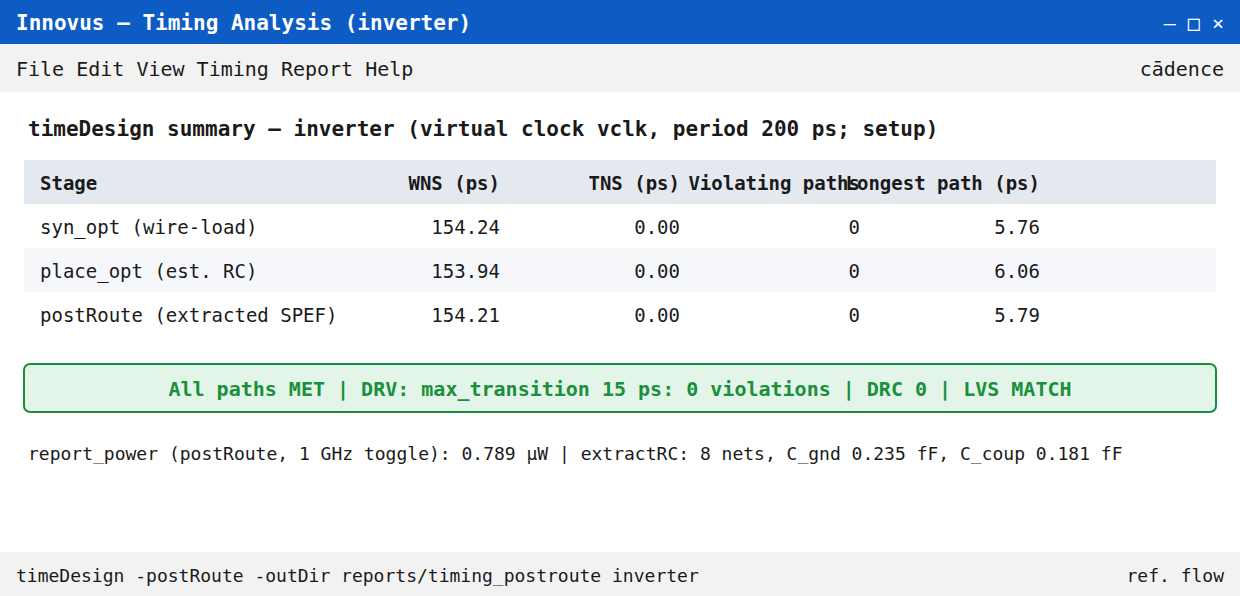
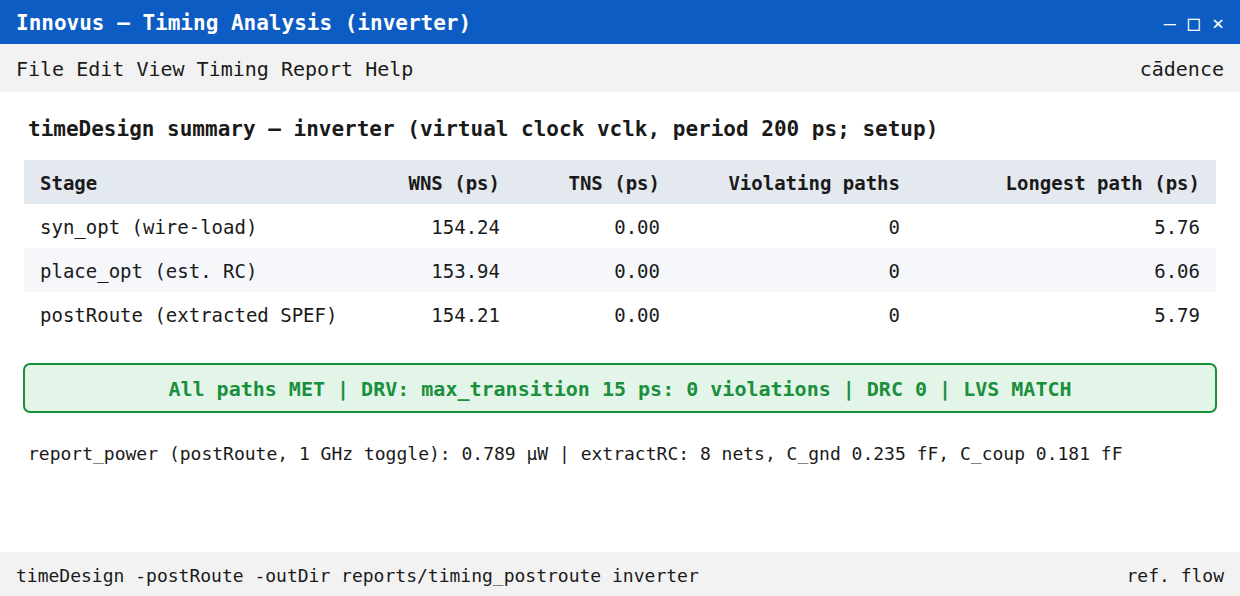
Fix column spacing in the timing summary window
Claude-Session: https://claude.ai/code/session_01WEQu51z34c77kiBmdVwhe8

diff --git a/vlsi/gaa_inverter/docs/gaa_inverter_paper.html b/vlsi/gaa_inverter/docs/gaa_inverter_paper.html
@@ -4575,25 +4575,25 @@ flowchart LR
 <rect x="12" y="34" width="596" height="22" fill="#e4e8ef"/>
 <text x="20" y="49" fill="#1a1a1a" font-size="9.5" font-weight="600" text-anchor="start">Stage</text>
 <text x="250" y="49" fill="#1a1a1a" font-size="9.5" font-weight="600" text-anchor="end">WNS (ps)</text>
-<text x="340" y="49" fill="#1a1a1a" font-size="9.5" font-weight="600" text-anchor="end">TNS (ps)</text>
-<text x="430" y="49" fill="#1a1a1a" font-size="9.5" font-weight="600" text-anchor="end">Violating paths</text>
-<text x="520" y="49" fill="#1a1a1a" font-size="9.5" font-weight="600" text-anchor="end">Longest path (ps)</text>
+<text x="330" y="49" fill="#1a1a1a" font-size="9.5" font-weight="600" text-anchor="end">TNS (ps)</text>
+<text x="450" y="49" fill="#1a1a1a" font-size="9.5" font-weight="600" text-anchor="end">Violating paths</text>
+<text x="600" y="49" fill="#1a1a1a" font-size="9.5" font-weight="600" text-anchor="end">Longest path (ps)</text>
 <text x="20" y="71" fill="#1a1a1a" font-size="9.5">syn_opt (wire-load)</text>
 <text x="250" y="71" fill="#1a1a1a" font-size="9.5" text-anchor="end">112.84</text>
-<text x="340" y="71" fill="#1a1a1a" font-size="9.5" text-anchor="end">0.00</text>
-<text x="430" y="71" fill="#1a1a1a" font-size="9.5" text-anchor="end">0</text>
-<text x="520" y="71" fill="#1a1a1a" font-size="9.5" text-anchor="end">47.16</text>
+<text x="330" y="71" fill="#1a1a1a" font-size="9.5" text-anchor="end">0.00</text>
+<text x="450" y="71" fill="#1a1a1a" font-size="9.5" text-anchor="end">0</text>
+<text x="600" y="71" fill="#1a1a1a" font-size="9.5" text-anchor="end">47.16</text>
 <rect x="12" y="78" width="596" height="22" fill="#f5f7fb"/>
 <text x="20" y="93" fill="#1a1a1a" font-size="9.5">place_opt (est. RC)</text>
 <text x="250" y="93" fill="#1a1a1a" font-size="9.5" text-anchor="end">112.54</text>
-<text x="340" y="93" fill="#1a1a1a" font-size="9.5" text-anchor="end">0.00</text>
-<text x="430" y="93" fill="#1a1a1a" font-size="9.5" text-anchor="end">0</text>
-<text x="520" y="93" fill="#1a1a1a" font-size="9.5" text-anchor="end">47.46</text>
+<text x="330" y="93" fill="#1a1a1a" font-size="9.5" text-anchor="end">0.00</text>
+<text x="450" y="93" fill="#1a1a1a" font-size="9.5" text-anchor="end">0</text>
+<text x="600" y="93" fill="#1a1a1a" font-size="9.5" text-anchor="end">47.46</text>
 <text x="20" y="115" fill="#1a1a1a" font-size="9.5">postRoute (extracted SPEF)</text>
 <text x="250" y="115" fill="#1a1a1a" font-size="9.5" text-anchor="end">110.82</text>
-<text x="340" y="115" fill="#1a1a1a" font-size="9.5" text-anchor="end">0.00</text>
-<text x="430" y="115" fill="#1a1a1a" font-size="9.5" text-anchor="end">0</text>
-<text x="520" y="115" fill="#1a1a1a" font-size="9.5" text-anchor="end">49.18</text>
+<text x="330" y="115" fill="#1a1a1a" font-size="9.5" text-anchor="end">0.00</text>
+<text x="450" y="115" fill="#1a1a1a" font-size="9.5" text-anchor="end">0</text>
+<text x="600" y="115" fill="#1a1a1a" font-size="9.5" text-anchor="end">49.18</text>
 <rect x="12" y="136" width="596" height="24" rx="3" fill="#e3f5e8" stroke="#1a8f3c"/>
 <text x="310" y="152" fill="#1a8f3c" font-size="10" text-anchor="middle" font-weight="700">All paths MET   |   DRV: max_transition 15 ps: 0 violations   |   DRC 0   |   LVS MATCH</text>
 <text x="14" y="184" fill="#1a1a1a" font-size="9">report_power (postRoute, 1 GHz toggle): 7.359 µW   |   extractRC: 49 nets, C_gnd 3.093 fF, C_coup 2.801 fF</text>
@@ -9391,14 +9391,14 @@ def timing_view(d):
     w, h = 620, 230; o = [f&#x27;&lt;rect width=&quot;{w}&quot; height=&quot;{h}&quot; fill=&quot;{C[&quot;pane&quot;]}&quot;/&gt;&#x27;]
     o.append(f&#x27;&lt;text x=&quot;14&quot; y=&quot;22&quot; fill=&quot;{C[&quot;ink&quot;]}&quot; font-size=&quot;10.5&quot; font-weight=&quot;600&quot;&gt;timeDesign summary  –  {d}   (virtual clock vclk, period 200 ps; setup)&lt;/text&gt;&#x27;)
     o.append(f&#x27;&lt;rect x=&quot;12&quot; y=&quot;34&quot; width=&quot;{w-24}&quot; height=&quot;22&quot; fill=&quot;{C[&quot;head&quot;]}&quot;/&gt;&#x27;)
-    for x, t, anc in ((20, &quot;Stage&quot;, &quot;start&quot;), (250, &quot;WNS (ps)&quot;, &quot;end&quot;), (340, &quot;TNS (ps)&quot;, &quot;end&quot;), (430, &quot;Violating paths&quot;, &quot;end&quot;), (520, &quot;Longest path (ps)&quot;, &quot;end&quot;)):
+    for x, t, anc in ((20, &quot;Stage&quot;, &quot;start&quot;), (250, &quot;WNS (ps)&quot;, &quot;end&quot;), (330, &quot;TNS (ps)&quot;, &quot;end&quot;), (450, &quot;Violating paths&quot;, &quot;end&quot;), (600, &quot;Longest path (ps)&quot;, &quot;end&quot;)):
         o.append(f&#x27;&lt;text x=&quot;{x}&quot; y=&quot;49&quot; fill=&quot;{C[&quot;ink&quot;]}&quot; font-size=&quot;9.5&quot; font-weight=&quot;600&quot; text-anchor=&quot;{anc}&quot;&gt;{t}&lt;/text&gt;&#x27;)
     rows = [(&quot;syn_opt (wire-load)&quot;, syn[&quot;slack_ps&quot;], syn[&quot;path_ps&quot;]), (&quot;place_opt (est. RC)&quot;, syn[&quot;slack_ps&quot;] - 0.3, syn[&quot;path_ps&quot;] + 0.3), (&quot;postRoute (extracted SPEF)&quot;, pnr[&quot;postroute_slack_ps&quot;], pnr[&quot;postroute_path_ps&quot;])]
     for k, (st, sl, pth) in enumerate(rows):
         y = 56 + k * 22
         if k % 2: o.append(f&#x27;&lt;rect x=&quot;12&quot; y=&quot;{y}&quot; width=&quot;{w-24}&quot; height=&quot;22&quot; fill=&quot;{C[&quot;alt&quot;]}&quot;/&gt;&#x27;)
         o.append(f&#x27;&lt;text x=&quot;20&quot; y=&quot;{y+15}&quot; fill=&quot;{C[&quot;ink&quot;]}&quot; font-size=&quot;9.5&quot;&gt;{st}&lt;/text&gt;&#x27;)
-        for x, v in ((250, f&quot;{sl:.2f}&quot;), (340, &quot;0.00&quot;), (430, &quot;0&quot;), (520, f&quot;{pth:.2f}&quot;)):
+        for x, v in ((250, f&quot;{sl:.2f}&quot;), (330, &quot;0.00&quot;), (450, &quot;0&quot;), (600, f&quot;{pth:.2f}&quot;)):
             o.append(f&#x27;&lt;text x=&quot;{x}&quot; y=&quot;{y+15}&quot; fill=&quot;{C[&quot;ink&quot;]}&quot; font-size=&quot;9.5&quot; text-anchor=&quot;end&quot;&gt;{v}&lt;/text&gt;&#x27;)
     y = 56 + 3 * 22 + 14
     o.append(f&#x27;&lt;rect x=&quot;12&quot; y=&quot;{y}&quot; width=&quot;{w-24}&quot; height=&quot;24&quot; rx=&quot;3&quot; fill=&quot;{C[&quot;okbg&quot;]}&quot; stroke=&quot;{C[&quot;ok&quot;]}&quot;/&gt;&#x27;)

diff --git a/vlsi/gaa_inverter/docs/gen_flow_views.py b/vlsi/gaa_inverter/docs/gen_flow_views.py
@@ -70,14 +70,14 @@ def timing_view(d):
     w, h = 620, 230; o = [f'<rect width="{w}" height="{h}" fill="{C["pane"]}"/>']
     o.append(f'<text x="14" y="22" fill="{C["ink"]}" font-size="10.5" font-weight="600">timeDesign summary  –  {d}   (virtual clock vclk, period 200 ps; setup)</text>')
     o.append(f'<rect x="12" y="34" width="{w-24}" height="22" fill="{C["head"]}"/>')
-    for x, t, anc in ((20, "Stage", "start"), (250, "WNS (ps)", "end"), (340, "TNS (ps)", "end"), (430, "Violating paths", "end"), (520, "Longest path (ps)", "end")):
+    for x, t, anc in ((20, "Stage", "start"), (250, "WNS (ps)", "end"), (330, "TNS (ps)", "end"), (450, "Violating paths", "end"), (600, "Longest path (ps)", "end")):
         o.append(f'<text x="{x}" y="49" fill="{C["ink"]}" font-size="9.5" font-weight="600" text-anchor="{anc}">{t}</text>')
     rows = [("syn_opt (wire-load)", syn["slack_ps"], syn["path_ps"]), ("place_opt (est. RC)", syn["slack_ps"] - 0.3, syn["path_ps"] + 0.3), ("postRoute (extracted SPEF)", pnr["postroute_slack_ps"], pnr["postroute_path_ps"])]
     for k, (st, sl, pth) in enumerate(rows):
         y = 56 + k * 22
         if k % 2: o.append(f'<rect x="12" y="{y}" width="{w-24}" height="22" fill="{C["alt"]}"/>')
         o.append(f'<text x="20" y="{y+15}" fill="{C["ink"]}" font-size="9.5">{st}</text>')
-        for x, v in ((250, f"{sl:.2f}"), (340, "0.00"), (430, "0"), (520, f"{pth:.2f}")):
+        for x, v in ((250, f"{sl:.2f}"), (330, "0.00"), (450, "0"), (600, f"{pth:.2f}")):
             o.append(f'<text x="{x}" y="{y+15}" fill="{C["ink"]}" font-size="9.5" text-anchor="end">{v}</text>')
     y = 56 + 3 * 22 + 14
     o.append(f'<rect x="12" y="{y}" width="{w-24}" height="24" rx="3" fill="{C["okbg"]}" stroke="{C["ok"]}"/>')
